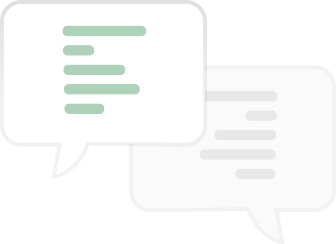
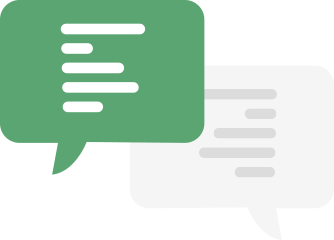
index-list所属的图片ui的修改和my-collection页面的数据为空的处理

diff --git a/src/pages/my-collections/index.js b/src/pages/my-collections/index.js
@@ -12,11 +12,16 @@ require('../../assets/js/appDownload.js');//全局下载APP
 require('../../assets/js/dropload.min'); // 分页插件
 
 
-window.onpageshow = function (event) {
-  if (event.persisted) {
-    location.reload();
-  }
-};
+// 解决Safari ( WKWebview ) 返回后页面不刷新的问题
+var browserRule = /^.*((iPhone)|(iPad)|(Safari))+.*$/;
+if (browserRule.test(navigator.userAgent)) {
+  window.onpageshow = function (event) {
+    if (event.persisted) {
+      window.location.reload()
+    }
+  };
+}
+
 $(function () {
   // var loginInfo = JSON.parse(window.sessionStorage.getItem('loginInfo'));
   // // 关闭loading
@@ -87,38 +92,46 @@ $(function () {
           && res.result.items.length > 0) {
           var array = res.result.items;
           var str = '';
-          for (var i = 0; i < array.length; i++) {
-            var item = array[i];
-            str +=
-              '<div class="listItems">' +
-              '  <a href="/houseDetails?id=' + item.id + '">' +
-              '    <div class="index-list">' +
-              '        <div class="img">' +
-              '          <img src="' + item.mainPicture.replace('{size}', '1020x576') + '" alt="">' +
-              '        </div>' +
-              '        <div class="item-oneline">' +
-              '          <p>' + item.title + '</p>' +
-              '          <p>￥' + item.price + '</p>' +
-              '        </div>' +
-              '        <div class="item-twoline">' +
-              '          <i class="twoline-items">' + item.region + '</i>' +
-              '          <i class="twoline-items">' + item.houseType + '</i>' +
-              '          <i class="twoline-items">' + item.customerCount + '人</i>' +
-              '        </div>' +
-              '        <div class="item-threeline">' +
-              '    <div class="three-lline">' +
-              '      <div class="star-lines"><div class="star-bar-score" style="width:' + (item.rate * 1.7 / 5) + 'rem"></div><div class="star-bar"></div></div>' +
-              '      <i class="score">' + item.rate.toFixed(1) + '分</i>' +
-              '    </div>' +
-              '          <div class="three-rline">' +
-              '            <i class="twoline-items">' + item.livedCount + '人住过</i>' +
-              '            <i class="twoline-items">' + item.commentCount + '条评价</i>' +
-              '          </div>' +
-              '        </div>' +
-              '      </div>' +
-              '    </a>' +
-              '</div>'
-              ;
+          if (array.length > 0) {
+            for (var i = 0; i < array.length; i++) {
+              var item = array[i];
+              str +=
+                '<div class="listItems">' +
+                '  <a href="/houseDetails?id=' + item.id + '">' +
+                '    <div class="index-list">' +
+                '        <div class="img">' +
+                '          <img src="' + item.mainPicture.replace('{size}', '1020x576') + '" alt="">' +
+                '        </div>' +
+                '        <div class="item-oneline">' +
+                '          <p>' + item.title + '</p>' +
+                '          <p>￥' + item.price + '</p>' +
+                '        </div>' +
+                '        <div class="item-twoline">' +
+                '          <i class="twoline-items">' + item.region + '</i>' +
+                '          <i class="twoline-items">' + item.houseType + '</i>' +
+                '          <i class="twoline-items">' + item.customerCount + '人</i>' +
+                '        </div>' +
+                '        <div class="item-threeline">' +
+                '    <div class="three-lline">' +
+                '      <div class="star-lines"><div class="star-bar-score" style="width:' + (item.rate * 1.7 / 5) + 'rem"></div><div class="star-bar"></div></div>' +
+                '      <i class="score">' + item.rate.toFixed(1) + '分</i>' +
+                '    </div>' +
+                '          <div class="three-rline">' +
+                '            <i class="twoline-items">' + item.livedCount + '人住过</i>' +
+                '            <i class="twoline-items">' + item.commentCount + '条评价</i>' +
+                '          </div>' +
+                '        </div>' +
+                '      </div>' +
+                '    </a>' +
+                '</div>'
+                ;
+            }
+          } else {
+            str =
+              '<section class="unusual-body">' +
+              '  <div class="no-house"></div>' +
+              '  <span>请赶紧去收藏房源吧</span>' +
+              '</section>';
           }
           $collectionsList.append(str);
         }

diff --git a/src/pages/my-footprints/index.js b/src/pages/my-footprints/index.js
@@ -33,7 +33,9 @@ $(function () {
                 '<div class="listItems">' +
                 '  <a href="/houseDetails?id=' + item.id + '">' +
                 '    <div class="index-list">' +
-                '      <img src="' + item.mainPicture.replace('{size}', '680x384') + '" alt="">' +
+                '        <div class="img">' +
+                '          <img src="' + item.mainPicture.replace('{size}', '1020x576') + '" alt="">' +
+                '        </div>' +
                 '        <div class="item-oneline">' +
                 '          <p>' + item.title + '</p>' +
                 '          <p>￥' + item.price + '</p>' +

diff --git a/src/sass/list/index-list.scss b/src/sass/list/index-list.scss
@@ -8,7 +8,7 @@
 .index-list .img {
     @include flex-box;
     @include align-items;
-    @include justify-content;
+    // @include justify-content;
     width: 6.8rem;
     height: 3.84rem;
     overflow: hidden;
